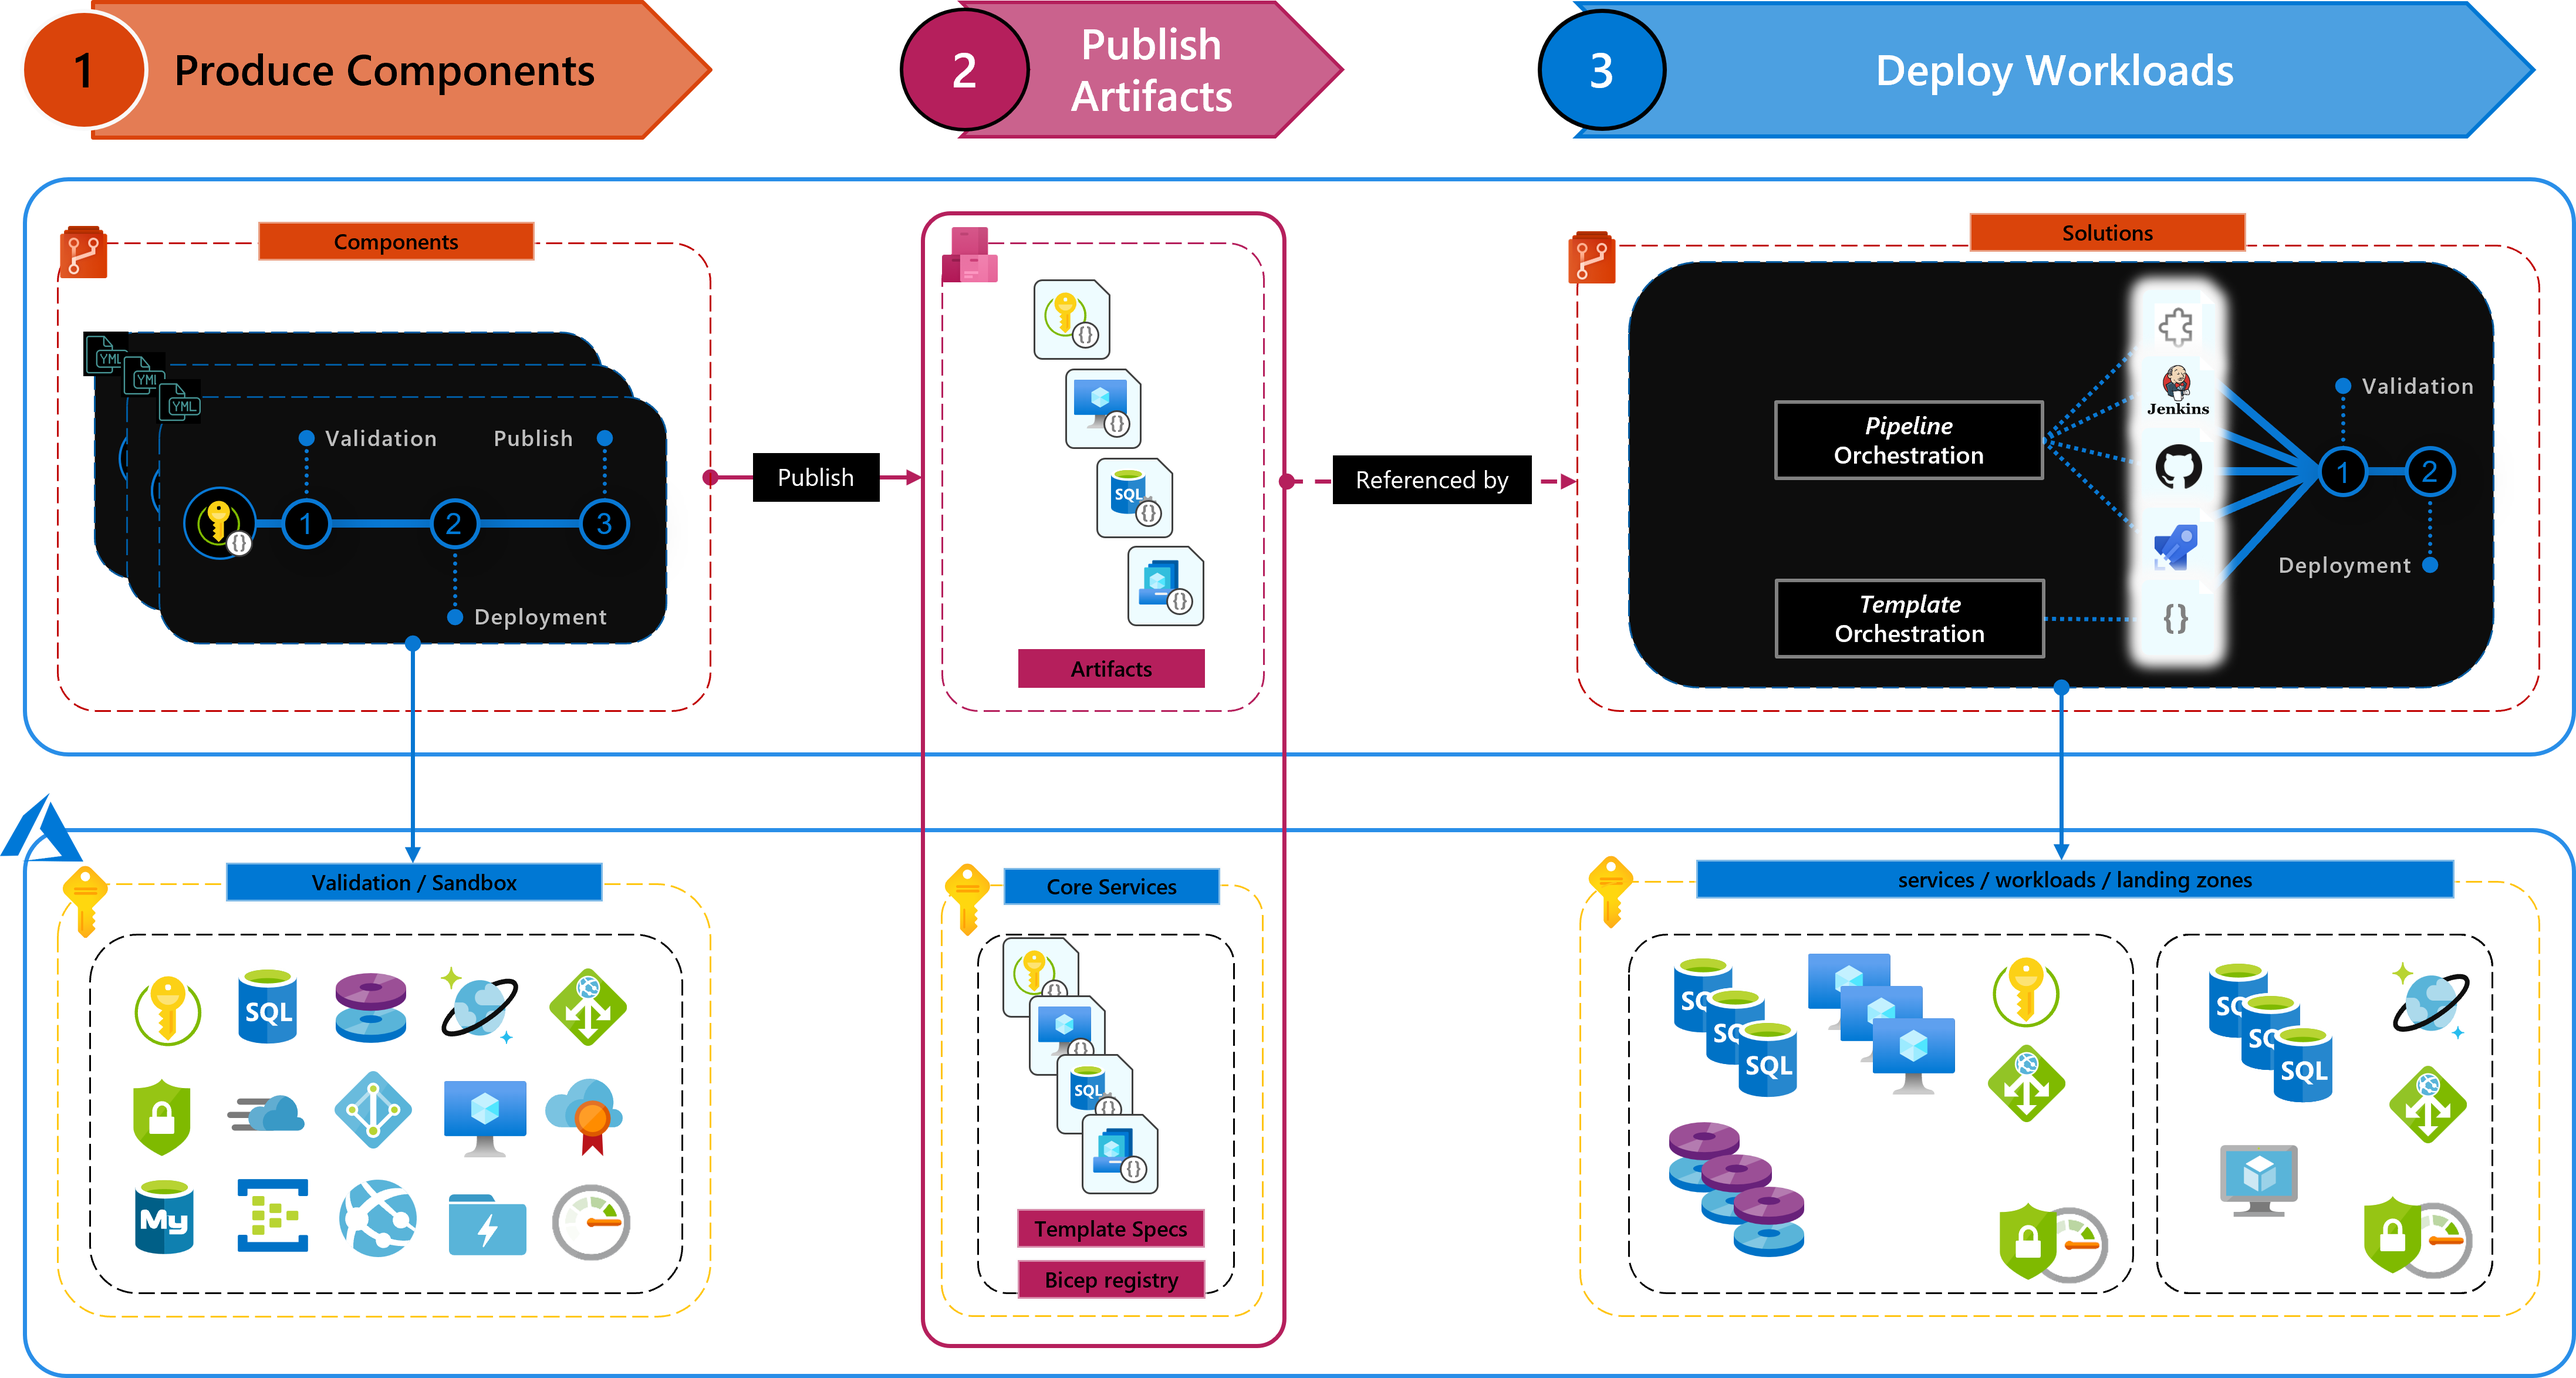
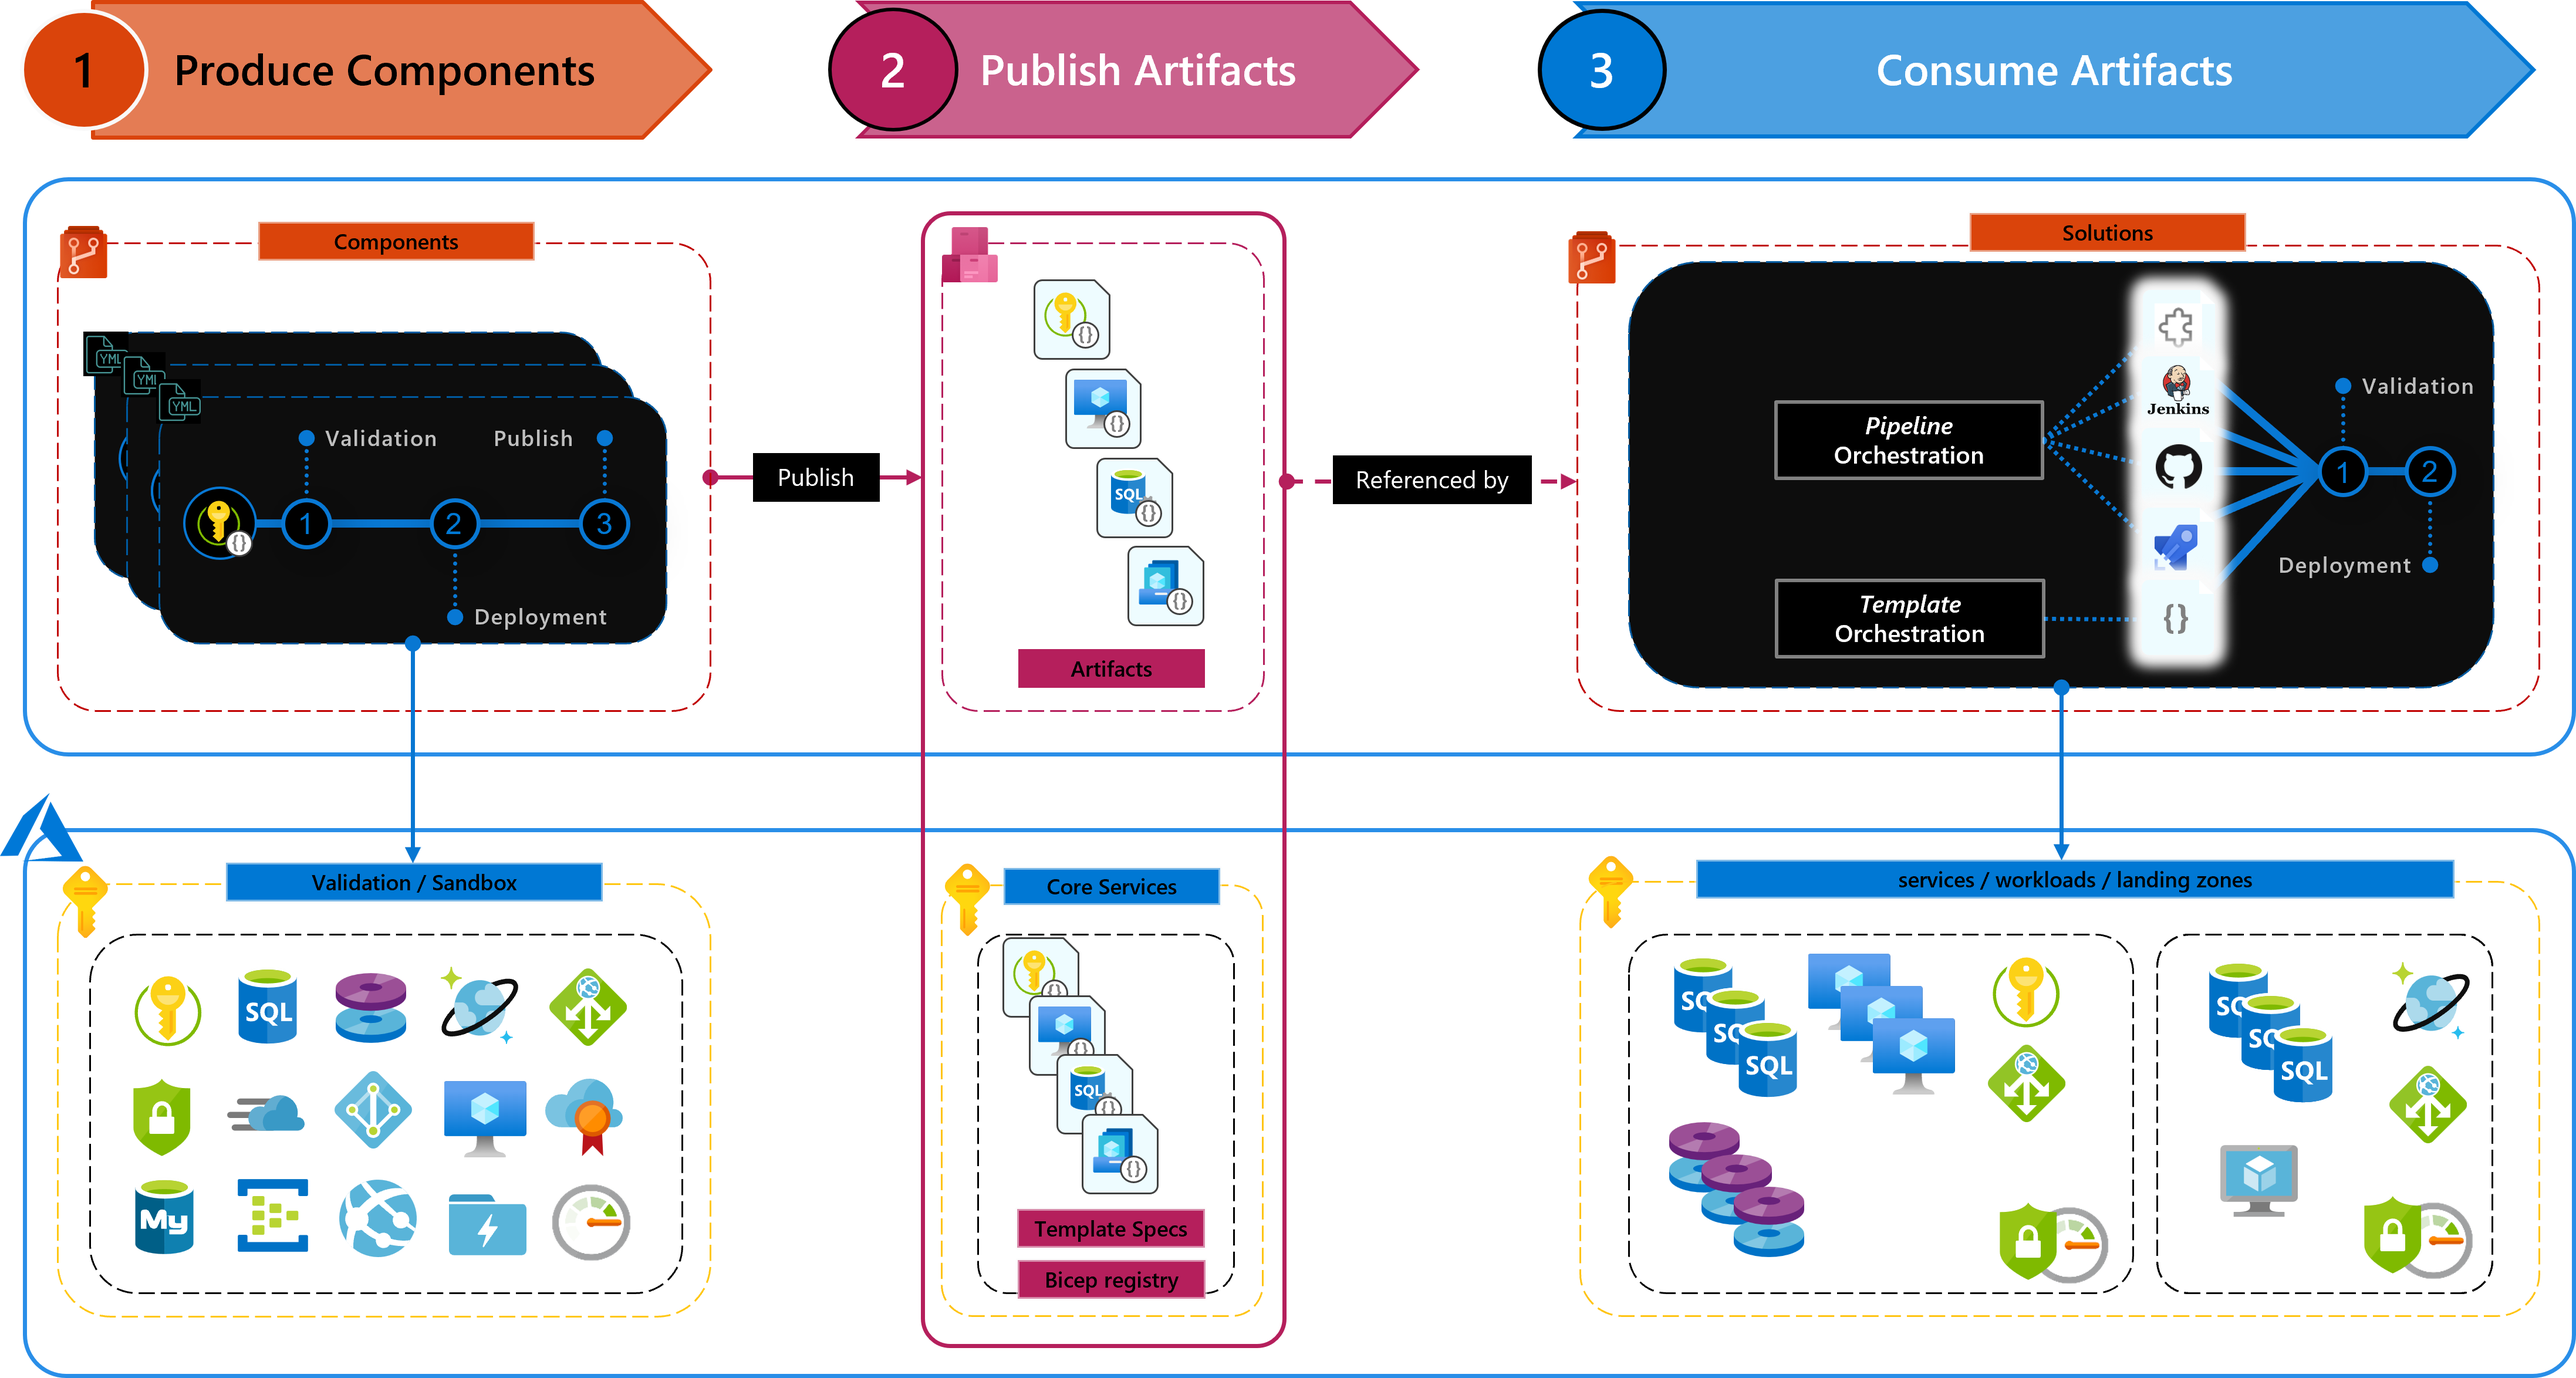
Update to latest

Changed region(s): [[0.3121, 0.0, 0.5619, 0.1244], [0.7179, 0.0311, 0.874, 0.0622]]

diff --git a/docs/wiki/Vision.md b/docs/wiki/Vision.md
@@ -50,7 +50,7 @@ Why this is useful we will explain in the next few sections.
 
 <img src="media/deploymentModel.png" alt="Deployment model components" height="200" width="300">
 
-When working with IaC we use 3 different components:
+When working with IaC you use 3 different components:
 - The deployed **environments** that can be individual services, compositions such as workloads, or entire landing zones and the like
 - The **orchestration** deploying the modules in the form of template/pipeline orchestration using for example GitHub actions or Azure DevOps pipelines
   - No matter the platform we can differentiate two different deployment approaches:
@@ -82,6 +82,8 @@ Then we'd only need to create a parameter file for the orchestration-template an
 
 In this section we'll take a deeper look into the fundamental flow of the platform.
 
+> **Note:** This repository focuses on the component _'Modules'_ of the previous section. Likewise, while we provide examples for the other components (and the subsequently described Phase `#3`) it is not in scope and described to present the bigger picture.
+
 First things first, we would work towards the deployment of our environments in 3 phases:
 
 <img src="media/deploymentFlow.png" alt="Deployment flow" height="150" width="750">
@@ -97,6 +99,14 @@ The last phase then is the **artifact consumption**. As mentioned previously, th
 
 The following image shows a more detailed version of the end-2-end approach:
 
-<img src="media/completeFlow.png" alt="Complete deployment flow" height="700" width="4400">
+<img src="media/completeFlow.png" alt="Complete deployment flow" height="2348" width="4389">
 
-The top row represents your orchestration environment (for example GitHub), the bottom row the Azure environment.
+The top row represents your orchestration environment (for example GitHub), the bottom row the _Azure_ environment.
+
+From left to right you will find the phases we introduced before, _produce components_, _publish artifacts_ & _consume artifacts_. However, in this illustration you can see how each interacts with the Azure environment.
+
+Starting with _produce components_, the top left box shows the test workflows we have for each module, each validating, test-deploying and (if successful) publishing the module. The subscription on the bottom is intended to be a test/sandbox subscription without any link to production. Instead resources deployed here should be considered temporary and be removed after testing.
+
+As stated before, if all tests for a module succeed, the pipeline will publish the artifact to a given target location. In the center box you can see examples for _template specs_, the _bicep registry_ as well as _Azure DevOps artifacts_.
+
+Finally, one the right you can see examples for both the template-orchestration as well as pipeline-orchestration running a validation and subsequent deployment on the bottom-right _Azure_ subscription. This subscription, in turn, should be the subscription where you want to host your environment. However, you can extend the concept and for example deploy the environment first to an integration and then a production subscription.
